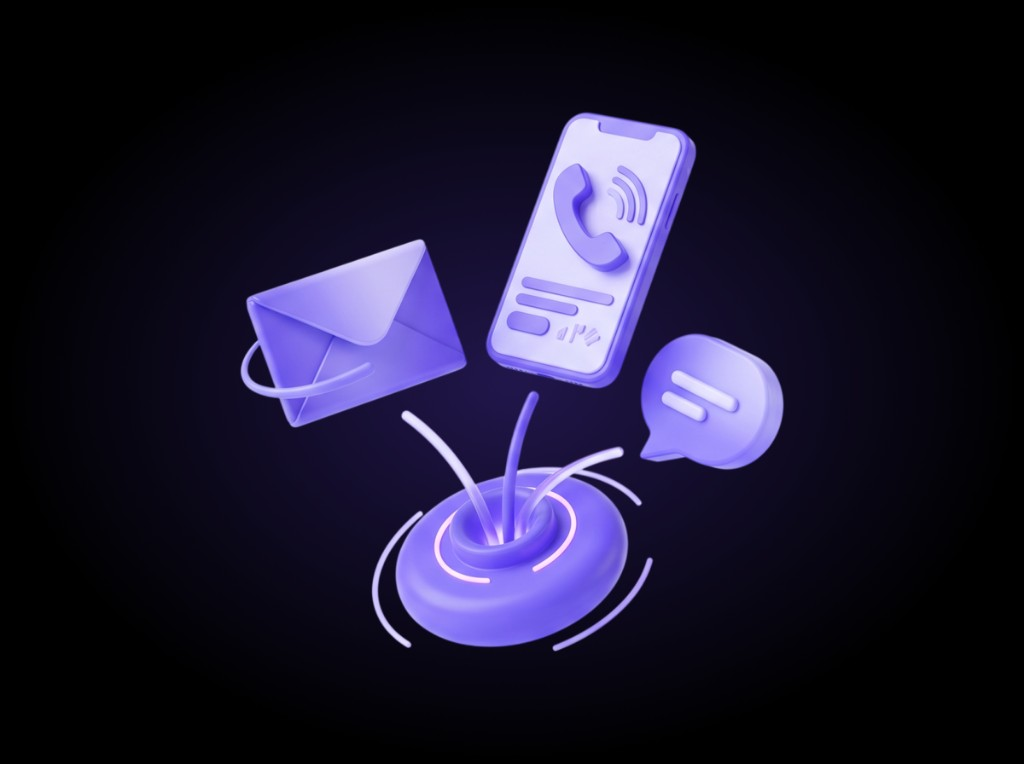
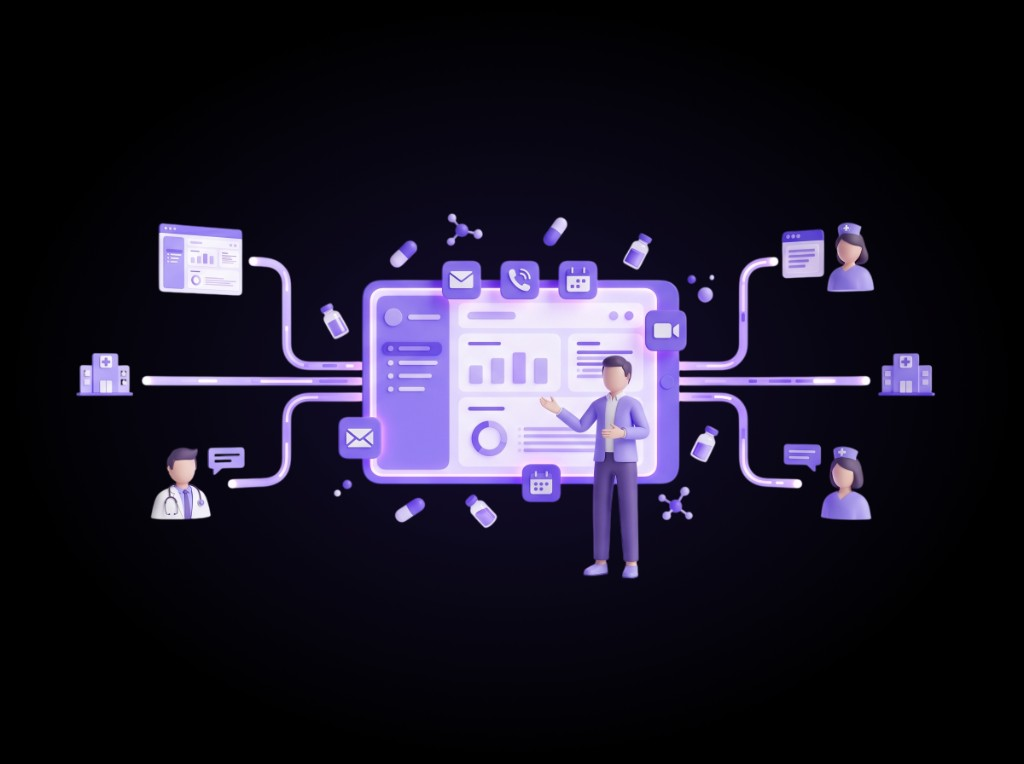
fix(home): обновлена тёмная иллюстрация CRM и кроп
Новый crm-feature-dark.png, выравнивание cover по центру без смещения.

Changed region(s): [[0.0625, 0.1204, 0.9375, 0.873], [0.3125, 0.6322, 0.3438, 0.6623]]

diff --git a/css/styles.css b/css/styles.css
@@ -894,21 +894,24 @@ button { font-family: inherit; }
   display: block;
 }
 [data-theme="dark"] .feature-crm-art-wrap {
-  background: var(--surface);
+  background: #06060c;
 }
 [data-theme="dark"] .feature-crm-art--theme-dark {
-  object-fit: contain;
+  inset: 0;
+  left: 0;
+  top: 0;
+  width: 100%;
+  height: 100%;
+  max-width: none;
+  transform: none;
+  object-fit: cover;
   object-position: center center;
   opacity: 1;
 }
 /* Узкая колонка / стек — иллюстрация крупнее, без «рамки» PNG */
 @media (max-width: 1100px) {
-  [data-theme="dark"] .feature-crm-art-wrap {
-    background: #06060c;
-  }
   [data-theme="dark"] .feature-crm-art--theme-dark {
-    object-fit: cover;
-    object-position: 56% 40%;
+    object-position: 54% 42%;
   }
 }
 @media (max-width: 960px) {
